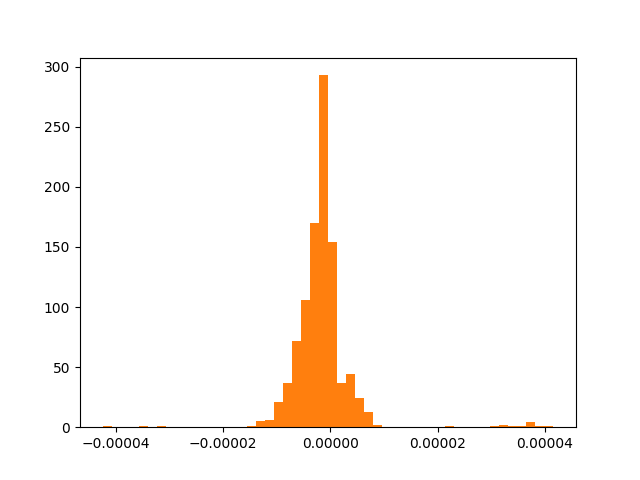
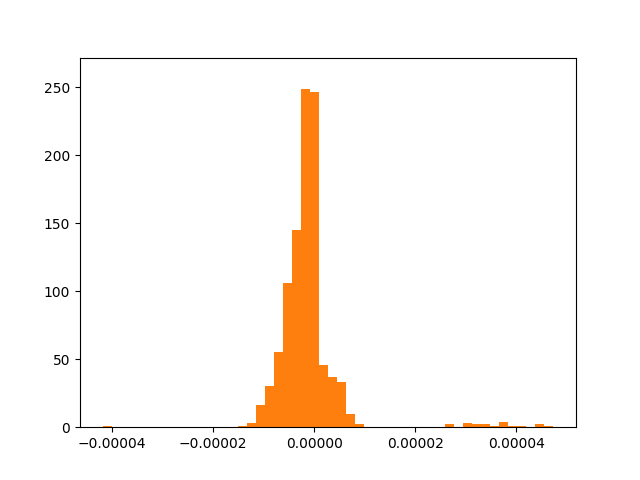
modify

diff --git a/generator.cpp b/generator.cpp
@@ -3,6 +3,7 @@
 #include <vector>
 #include <random>
 #include <fstream>
+#include <cassert>
 using namespace std;
 
 #define dbg(x) cerr << #x << "=" << x << endl
@@ -13,10 +14,53 @@ struct Edge{
 };
 typedef vector<Edge> Edges;
 typedef vector<Edges> Graph;
-typedef vector<int> Path;
+typedef vector<int> Haplo;
+typedef vector<Haplo> HaploSet;
 
 string getfileName(string prf, string suf, int fileidx){
   return "./testdata/" + prf + to_string(fileidx) + suf;
+}
+
+void outputHaplo(Haplo h, string filename){
+  ofstream ofs(filename);
+  for(int node : h){
+    ofs << node + 1 << ","; // 1-indexed
+  }
+  ofs << "0" << endl; // END-MARKER
+  ofs.close();
+}
+
+void outputHaploSet(HaploSet hs, string filename){
+  ofstream ofs(filename);
+  for(Haplo h : hs){
+    for(int node : h){
+      ofs << node + 1 << ","; // 1-indexed
+    }
+    ofs << "0" << endl; // END-MARKER
+  }
+  ofs.close();
+}
+
+void outputGraph(Graph g,int fileidx){
+  int numofNode = g.size();
+
+  ofstream outputfile1(getfileName("topology", ".txt", fileidx));
+  outputfile1 << "Number of nodes = " << numofNode << endl;
+  for(int crtNode = 0; crtNode < numofNode; crtNode++){
+    for(Edge e : g[crtNode]){
+      outputfile1 << crtNode + 1 << " " << e.nxtNode + 1 << endl; // 1-indexed
+    }
+  }
+  outputfile1.close();
+
+  ofstream outputfile2(getfileName("topology_prob", ".txt", fileidx));
+  outputfile2 << "Number of nodes = " << numofNode << endl;
+  for(int crtNode = 0; crtNode < numofNode; crtNode++){
+    for(Edge e : g[crtNode]){
+      outputfile2 << crtNode + 1 << " " << e.nxtNode + 1 << " : prob = " << e.probability << endl; // 1-indexed
+    }
+  }
+  outputfile2.close();
 }
 
 Graph createDAG(int numofNode, int maxgroupSize, int maxpathSize){
@@ -73,136 +117,98 @@ Graph createDAG(int numofNode, int maxgroupSize, int maxpathSize){
   return resultGraph;
 }
 
-void graphOutput(Graph g,int fileidx){
-  int numofNode = g.size();
+void subhaploEnum(const Graph& givenGraph, int crtNode, HaploSet& resultHaplos,
+ vector<double>& subhaploProbs, Haplo crtHaplo, double crtProb){
 
-  ofstream outputfile1(getfileName("topology", ".txt", fileidx));
-  outputfile1 << "Number of nodes = " << numofNode << endl;
-  for(int crtNode = 0; crtNode < numofNode; crtNode++){
-    for(Edge e : g[crtNode]){
-      outputfile1 << crtNode + 1 << " " << e.nxtNode + 1 << endl; // 1-indexed
-    }
-  }
-  outputfile1.close();
-
-  ofstream outputfile2(getfileName("topology_prob", ".txt", fileidx));
-  outputfile2 << "Number of nodes = " << numofNode << endl;
-  for(int crtNode = 0; crtNode < numofNode; crtNode++){
-    for(Edge e : g[crtNode]){
-      outputfile2 << crtNode + 1 << " " << e.nxtNode + 1 << " : prob = " << e.probability << endl; // 1-indexed
-    }
-  }
-  outputfile2.close();
-}
-
-void subpathEnum(const Graph& givenGraph, int crtNode, vector<Path>& resultPaths,
- vector<double>& subpathProbs, Path crtNodes, double crtProb){
-
-  resultPaths.push_back(crtNodes);
-  subpathProbs.push_back(crtProb);
+  resultHaplos.push_back(crtHaplo);
+  subhaploProbs.push_back(crtProb);
   for(Edge e : givenGraph[crtNode]){
-    crtNodes.push_back(e.nxtNode);
-    subpathEnum(givenGraph, e.nxtNode, resultPaths, subpathProbs, crtNodes, crtProb * ((double)e.probability / 100.0));
-    crtNodes.pop_back();
+    crtHaplo.push_back(e.nxtNode);
+    subhaploEnum(givenGraph, e.nxtNode, resultHaplos, subhaploProbs, crtHaplo, crtProb * ((double)e.probability / 100.0));
+    crtHaplo.pop_back();
   }
 }
 
-void extractSubpath(const Graph& givenGraph, int numofNode, int fileidx){
+void extractSubhaplo(const Graph& givenGraph, int numofNode, int fileidx){
   random_device rnd;
   mt19937 mt(rnd());
   uniform_int_distribution<> rand100(0, 99);
 
-  vector<Path> allsubPaths;
-  vector<double> subpathProbs;
+  HaploSet allsubHaplos;
+  vector<double> subhaploProbs;
   for(int crtNode = 0; crtNode < numofNode; crtNode++){
-    subpathEnum(givenGraph, crtNode, allsubPaths, subpathProbs, vector<int>(1,crtNode), 1.0);
+    subhaploEnum(givenGraph, crtNode, allsubHaplos, subhaploProbs, Haplo(1,crtNode), 1.0);
   }
 
-  vector<Path> selectedPaths;
-  vector<double> selectedPathprobs;
-  for(int i = 0; i < (int)allsubPaths.size(); i++){
+  HaploSet selectedHaplos;
+  vector<double> selectedHaploprobs;
+  for(int i = 0; i < (int)allsubHaplos.size(); i++){
     double p = (double)rand100(mt) / 100.0;
-    if(p < subpathProbs[i]){
-      selectedPaths.push_back(allsubPaths[i]);
-      selectedPathprobs.push_back(subpathProbs[i]);
+    if(p < subhaploProbs[i]){
+      selectedHaplos.push_back(allsubHaplos[i]);
+      selectedHaploprobs.push_back(subhaploProbs[i]);
     }
   }
 
   // output haploSet.csv
-  ofstream outputfile1(getfileName("haploSet", ".csv", fileidx));
-  for(int i = 0;i < (int)selectedPaths.size(); i++){
-    Path p = selectedPaths[i];
-    for(int node : p){
-      outputfile1 << node + 1 << ","; // 1-indexed
-    }
-    outputfile1 << "0" <<endl; // ENDMARKER
-  }
-  outputfile1.close();
+  outputHaploSet(selectedHaplos, getfileName("haploSet", ".csv", fileidx));
 
-  ofstream outputfile2(getfileName("haploSet_prob", ".txt", fileidx));
-  for(int i = 0;i < (int)selectedPaths.size(); i++){
-    Path p = selectedPaths[i];
-    double prob = selectedPathprobs[i];
-    for(int node : p){
-      outputfile2 << node + 1 << ","; // 1-indexed
-    }
-    outputfile2 << prob;
-    outputfile2 << endl;
-  }
-  outputfile2.close();
-
-  // cutting path
-  vector<Path> cutPaths;
-  double cuttingProb = 0.02;
-  for(int i = 0; i < (int)selectedPaths.size(); i++){
-    Path path;
-    for(int node : selectedPaths[i]){
-      double p = (double)rand100(mt) / 100.0;
-      if(path.size() > 0 && p < cuttingProb){
-        cutPaths.push_back(path);
-        path.clear();
+  // FOR DEBUG OUTPUT
+  {
+    ofstream outputfile2(getfileName("haploSet_prob", ".txt", fileidx));
+    for(int i = 0;i < (int)selectedHaplos.size(); i++){
+      Haplo p = selectedHaplos[i];
+      double prob = selectedHaploprobs[i];
+      for(int node : p){
+        outputfile2 << node + 1 << ","; // 1-indexed
       }
-      path.push_back(node);
+      outputfile2 << prob;
+      outputfile2 << endl;
     }
-    if(path.size() > 0) cutPaths.push_back(path);
+    outputfile2.close();
   }
 
-  // output haploSet_cut.csv
-  ofstream outputfile3(getfileName("haploSet_cut", ".csv", fileidx));
-  for(int i = 0;i < (int)cutPaths.size(); i++){
-    Path p = cutPaths[i];
-    for(int node : p){
-      outputfile3 << node + 1 << ","; // 1-indexed
+  // cutting haplo
+  HaploSet cutHaplos;
+  double cuttingProb = 0.02; // Cutting probability = 2%
+  for(int i = 0; i < (int)selectedHaplos.size(); i++){
+    Haplo h;
+    for(int node : selectedHaplos[i]){
+      double p = (double)rand100(mt) / 100.0;
+      if((int)h.size() > 0 && p < cuttingProb){
+        cutHaplos.push_back(h);
+        h.clear();
+      }
+      h.push_back(node);
     }
-    outputfile3 << "0" <<endl; // ENDMARKER
+    if((int)h.size() > 0) cutHaplos.push_back(h);
   }
-  outputfile3.close();
+
+  outputHaploSet(cutHaplos, getfileName("haploSet_cut", ".csv", fileidx));
 }
 
-void searchHaplo(const Graph& givenGraph, int crtNode, Path crtNodes, Path& foundHaplo, int haploSize){
-  if((int)crtNodes.size() >= haploSize){
-    foundHaplo = crtNodes;
+void searchHaplo(const Graph& givenGraph, int crtNode, Haplo crtHaplo, Haplo& foundHaplo, int haploSize){
+  if((int)crtHaplo.size() >= haploSize){
+    foundHaplo = crtHaplo;
     return ;
   }
   for(Edge e : givenGraph[crtNode]){
-    crtNodes.push_back(e.nxtNode);
-    searchHaplo(givenGraph, e.nxtNode, crtNodes, foundHaplo, haploSize);
+    crtHaplo.push_back(e.nxtNode);
+    searchHaplo(givenGraph, e.nxtNode, crtHaplo, foundHaplo, haploSize);
     if(foundHaplo.size() > 0)return ;
-    crtNodes.pop_back();
+    crtHaplo.pop_back();
   }
 }
 
 void createHaplo(const Graph& givenGraph, int fileidx, int haploSize){
-  Path foundHaplo;
-  searchHaplo(givenGraph, 0, Path(1,0), foundHaplo, haploSize);
-
-  // output Haplo
-  ofstream outputfile(getfileName("haplo", ".csv", fileidx));
-  for(int node : foundHaplo){
-    outputfile << node + 1 << ","; // 1-indexed
+  Haplo foundHaplo;
+  searchHaplo(givenGraph, 0, Haplo(1,0), foundHaplo, haploSize);
+  if((int)foundHaplo.size() < haploSize){
+    fprintf(stderr, "Haplo Not Found.\n");
+    assert(false);
   }
-  outputfile << "0" <<endl; // ENDMARKER
-  outputfile.close();
+
+  outputHaplo(foundHaplo, getfileName("haplo", ".csv", fileidx));
 }
 
 int main(int argc, char *argv[]){
@@ -212,10 +218,10 @@ int main(int argc, char *argv[]){
   }
 
   int fileidx = atoi(argv[1]);
-  Graph givenGraph = createDAG(25, 5, 2);
-  graphOutput(givenGraph, fileidx);
-  extractSubpath(givenGraph, givenGraph.size(), fileidx);
-  createHaplo(givenGraph, fileidx, 12);
+  Graph givenGraph = createDAG(30, 5, 2);
+  outputGraph(givenGraph, fileidx);
+  extractSubhaplo(givenGraph, givenGraph.size(), fileidx);
+  createHaplo(givenGraph, fileidx, 15);
 
   return 0;
 }

diff --git a/tester.cpp b/tester.cpp
@@ -16,7 +16,7 @@ int main(){
   for(int i = 1; i <= numofTest; i++){
     system(("./generator " + to_string(i)).c_str());
   }
-  fprintf(stderr, "[+] Generated.\n");
+  fprintf(stderr, "[+] Generated. \n");
 
   for(int p = 1; p < 10; p += 1){
     system("rm -rf results");
@@ -45,6 +45,7 @@ int main(){
     fprintf(stderr, "[+] Ended %d process. \n", p);
   }
   system("python3 plot.py");
+  fprintf(stderr, "[+] Ended plotting. \n");
 
   return 0;
 }
